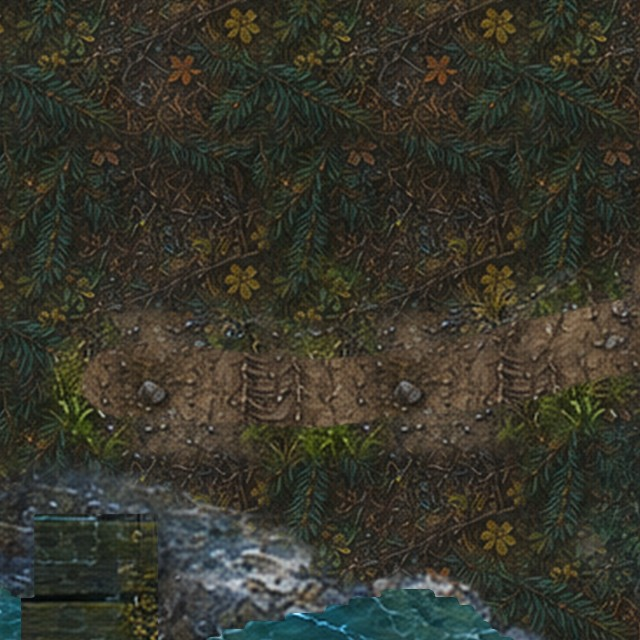
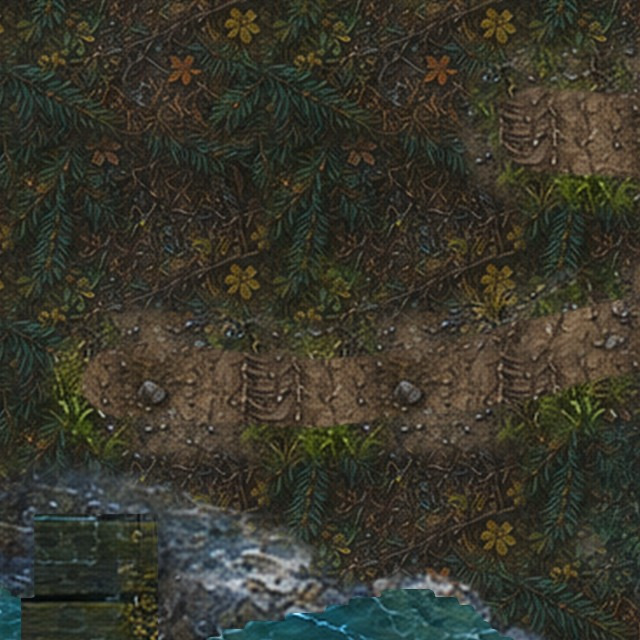
Bloodmoon Village is its own small map, and Fenris Isle's quests come from it
Kyle: "Did you want to make Bloodmoon village into a tiny hub? Actual map - but small and seperate."
Fenris Isle had 9 of 26 quests given in its village; the altar warden, the keep scout and the grave
hunter stood at the places they send you. Now:

- tools/handbuilt_bloodmoon_village.py: 46x36, a held cursed hamlet. Lane in from the south gate to
  the well, the elder's lodge, houses and huts, the gibbet and the village's own graves.
- On the isle, the village is a ruined gatehouse at the end of a lane off the island road. The
  pier, the road and the rest of the island are unchanged.
- Six people moved in (two elders, the provisioner, the warden, the scout, the gravehunter); the
  pier-warden stays on his pier. Greetings rewritten for where they stand now.
- Eight accept lines say which way to go from the village (altar north-west, manor north, Cur's
  Grave east): 0 WRONG, 0 SILENT.
- qa_quest_hubs covers every region now: eight more added, all at or above 70% from town. Fenris
  is at 92%.

Claude-Session: https://claude.ai/code/session_015TQrViPbuGDeiupTWSG9TT

Changed region(s): [[0.7188, 0.0625, 1.0, 0.3438]]

diff --git a/tools/handbuilt_bloodmoon_village.py b/tools/handbuilt_bloodmoon_village.py
@@ -1,0 +1,161 @@
+"""
+Hand-built Bloodmoon Village (46x36): the one roofed ground on Fenris Isle, levels 17-22.
+
+Kyle, 17 Nov 2026, on the quest-hub pass ("NPCs for quests are placed RIGHT at that subzone, this is... lame"): "Did you
+want to make Bloodmoon village into a tiny hub? Actual map - but small and seperate". Until today the village was a
+handful of huts on the isle's southern shore and only two of the isle's six quest-givers stood in it; the altar warden,
+the keep scout and the grave hunter stood at the places they send you. Now the village is its own small map and all
+of them stand in it, so a quest sends you out across the isle and you come back here to hand it in.
+
+TOWN ARCHETYPE: THE HELD VILLAGE.  A cursed hamlet that has not been abandoned because the people in it have nowhere
+else to go.  One lane in from the south gate to a well in the square; the elder's lodge to the north-west, a few
+houses and huts round the square, a gibbet nobody has taken down, and a scrap of graveyard at the east end.  Dead
+forest closes the edges, so it encloses without a wall sprite.
+
+    north: the elder's lodge, the watch corner
+    square: the well, Huntsman Corwell
+    south gate (23,35) -> Fenris Isle (58,104), the lane off the island road between the pier and the manor
+
+HARD CONTRACTS (world/portal_manager.py): portal (23,35) <-> Fenris Isle (58,104).  Arrivals land two tiles north of
+the destination tile, so you come in at (23,33) on the lane and go out at (58,102) past the isle's gatehouse.
+The gatehouse stands across the lane a few tiles in from each door: a decor building may not stand within two tiles
+of a door or an arrival, nor be drawn over a door (tools/handbuilt_central_barrens.Layout._try).
+NPC ids are the ones already in data/npcs/*.json - this module MOVES them, it does not invent any.
+"""
+import sys
+
+import numpy as np
+
+from tools import town_kit as K
+from tools import tirisfal_kit as T
+from tools.tirisfal_kit import wob
+
+KEY = "bloodmoon_village"
+NAME = "Bloodmoon Village"
+DESC = "Bloodmoon Village. The one roofed ground on Fenris Isle, held by people who have nowhere else to go."
+REGION = "Eastern Kingdoms - Lordaeron"
+W, H = 46, 36
+BAKED_DIR = "assets/tiles/bloodmoon_village/baked"
+IS_TOWN = True
+BASE_TILE = "grass"
+SEED = 98
+
+PORTALS = {(23, 35): "Fenris Isle"}
+ARRIVALS = [(23, 33)]
+START = (23, 28)
+
+ROADS = {
+    "lane": ([(23, 35), (23, 27), (23, 19)], 3.0),          # in from the south gate to the square
+    "west": ([(21, 17), (14, 14), (10, 12)], 2.2),          # up to the elder's lodge
+    "east": ([(26, 18), (33, 20), (38, 23)], 2.2),          # out to the graves
+}
+PLAZA = (23, 17, 7.0, 5.0)           # the square round the well
+DECKS = []
+
+_RS = K.RoadSet(ROADS)
+road_dist = _RS.dist
+
+
+def paved(gx, gy):
+    cx, cy, rx, ry = PLAZA
+    r = np.sqrt(((np.asarray(gx, float) - cx) / rx) ** 2 + ((np.asarray(gy, float) - cy) / ry) ** 2)
+    return (1 - r) * min(rx, ry)
+
+
+def deck_field(gx, gy):
+    return np.full(np.shape(gx), -9.0)
+
+
+def cliff_field(gx, gy):
+    """The dead-forest rim all round, and the one gap in it: the south gate, carved after the rim is forced."""
+    gx = np.asarray(gx, float)
+    gy = np.asarray(gy, float)
+    edge = np.minimum.reduce([gx, W - gx, gy, H - gy])
+    rock = (3.4 + 1.2 * wob(gx * 0.6, gy * 0.6)) - edge
+    gate = (np.abs(gx - 23.0) < 2.6) & (gy > H - 8)
+    rock = np.where(gate, np.minimum(rock, -1.0), rock)
+    rock = np.where(road_dist(gx, gy) > -0.4, np.minimum(rock, -0.5), rock)
+    return rock
+
+
+def fields(gx, gy):
+    gx = np.asarray(gx, float)
+    none = np.full(gx.shape, -99.0)
+    return dict(cliff=cliff_field(gx, gy), shallow=none, deep=none, deck=deck_field(gx, gy))
+
+
+def tile_kind(gx, gy):
+    return K.kind_from_fields(fields(gx, gy), np.shape(gx))
+
+
+SUBZONES = [
+    ("Bloodmoon Village", 2, 2, 42, 32),
+]
+
+# ---- baker config (read by tools/bake_silverpine.py; the same ground as Fenris Isle outside the gate) -------------
+BASE = {"mulch": 0.34, "fern": 0.16, "grass": 0.30, "rocky": 0.20}
+PAINT = {
+    "earth":  [(23, 26, 4, 7, 0.8), (36, 24, 5, 4, 0.7)],
+    "cursed": [(38, 25, 5, 4, 0.8)],
+    "gravel": [(23, 17, 6, 4, 0.6)],
+    "grass":  [(12, 24, 6, 5, 0.7), (32, 10, 6, 4, 0.6)],
+}
+COBBLE = [(23, 17, 7, 5, 0.9)]
+
+# ---- NPC spots ---------------------------------------------------------------------------------------------------
+# One per thing the village does. The three who used to stand out at the altar, the keep and the grave stand here
+# now and send you out to them.
+NPC_POSITIONS = {
+    "bloodmoon_elder":      (13, 15),    # Elder Gravemoss, at the door of the lodge
+    "fenris_village_elder": (26, 15),    # Huntsman Corwell, by the well
+    "fenris_provisioner":   (30, 22),    # vendor, at the stores
+    "fenris_altar_warden":  (9, 21),     # Warden Orlan, the west corner, facing the altar's ridge
+    "fenris_keep_scout":    (33, 11),    # Scout Merrin, the north corner, facing the manor
+    "fenris_grave_hunter":  (37, 20),    # Gravehunter Selke, the east end, by the village's own graves
+}
+CHESTS = []
+
+DEADS = [(T.HFP + "dead_pine_cluster.png", 5, 0.4), ("ek_dead_oak", 6, 0.34),
+         (T.CIP + "cursed_dead_tree_cluster.png", 6, 0.4)]
+FOREST = dict(seed=71, count=10, rim=2, thorn=8, names=DEADS)
+
+
+def dress(L):
+    p, b = L.prop, L.bld
+    CI = T.CIP
+    # ---- the gate and the lane in
+    b("ek_ruined_gatehouse", 23, 30, 9, solid=False, road_ok=True, nudge=0)
+    p("ek_forsaken_banner", 19, 26, 5)
+    p("ek_forsaken_banner", 27, 26, 5)
+    p("ek_signpost", 26, 24, 4)
+    # ---- the square
+    p("ek_farm_well", 20, 18, 4)
+    p("ek_farm_cart", 28, 26, 4)
+    # ---- the elder's lodge and the houses
+    b("forsaken_house_medium", 11, 10, 9, nudge=2)
+    b("forsaken_house_small", 31, 8, 8, nudge=2)
+    p(CI + "cursed_village_hut.png", 7, 26, 6)
+    p(CI + "cursed_village_hut.png", 15, 28, 6)
+    p(CI + "cursed_village_hut.png", 33, 27, 6)
+    p("ek_haystack", 11, 22, 4)
+    # ---- the stores
+    p("ek_scarlet_crates", 32, 23, 3)
+    # ---- the east end: a gibbet nobody has taken down, and the village's own graves
+    p("ek_gibbet", 40, 15, 6)
+    p(CI + "worn_tombstone_row.png", 39, 26, 4)
+    p("ek_open_grave", 41, 22, 3)
+    p("ek_cross_crows", 36, 30, 4)
+
+
+def build_layout():
+    return T.build(sys.modules[__name__])
+
+
+def generate_bloodmoon_village():
+    return T.generate(sys.modules[__name__])
+
+
+if __name__ == "__main__":
+    out = sys.argv[1] if len(sys.argv) > 1 else "/tmp/bloodmoon_shape.png"
+    T.shape_preview(sys.modules[__name__], out)
+    print(out)

diff --git a/tools/handbuilt_fenris_isle.py b/tools/handbuilt_fenris_isle.py
@@ -18,6 +18,8 @@ HARD CONTRACTS (world/portal_manager.py)
   portals  Silverpine South ferry (151,44) -> here (80,129) [arrive (80,127), on the pier]
            Shadowpine Altar (75,115) -> here (30,55) [arrive (30,57)]; this (30,55) -> Shadowpine Altar (75,115)
            this (80,129) -> Silverpine South (149,46)
+           this (58,104) <-> Bloodmoon Village (23,35): the village is its own small map since 17 Nov 2026
+           (tools/handbuilt_bloodmoon_village.py); a lane runs west off the island road to its gatehouse
 """
 import sys
 
@@ -37,8 +39,8 @@ IS_TOWN = False
 BASE_TILE = "grass"
 SEED = 97
 
-PORTALS = {(80, 129): "Silverpine South", (30, 55): "Shadowpine Altar"}
-ARRIVALS = [(80, 127), (30, 57)]
+PORTALS = {(80, 129): "Silverpine South", (30, 55): "Shadowpine Altar", (58, 104): "Bloodmoon Village"}
+ARRIVALS = [(80, 127), (30, 57), (58, 102)]
 START = (80, 118)
 
 ROADS = {
@@ -47,6 +49,7 @@ ROADS = {
     "west":   ([(80, 72), (66, 67), (52, 63), (40, 59), (31, 56)], 2.6),
     "east":   ([(81, 72), (96, 73), (110, 75), (122, 74), (132, 72)], 2.6),
     "docks":  ([(76, 108), (64, 110), (52, 112), (44, 112)], 2.4),
+    "village": ([(80, 104), (70, 104), (57, 104)], 2.4),       # the lane to Bloodmoon Village's gatehouse
 }
 _RS = K.RoadSet(ROADS)
 road_dist = _RS.dist
@@ -181,12 +184,8 @@ COBBLE = [(80, 104, 9, 6, 0.9), (80, 38, 9, 5, 0.9)]
 # ---- NPC spots ------------------------------------------------------------------------------------------------------
 NPC_POSITIONS = {
     "fenris_pier_warden": (83, 120),
-    "bloodmoon_elder": (76, 102),                  # Elder Gravemoss
-    "fenris_village_elder": (85, 101),             # Huntsman Corwell
-    "fenris_provisioner": (89, 107),               # vendor
-    "fenris_keep_scout": (83, 47),
-    "fenris_altar_warden": (35, 59),
-    "fenris_grave_hunter": (118, 73),
+    # The other six moved into Bloodmoon Village on 17 Nov 2026, which is its own map now
+    # (tools/handbuilt_bloodmoon_village.py). Left here they would paint "npc" talk tiles on empty ground.
 }
 CHESTS = [(92, 28), (40, 106), (140, 82), (24, 66), (100, 98)]
 
@@ -209,18 +208,13 @@ def dress(L):
     p(CO + "fish_crates_traps.png", 88, 122, 4)
     p(CO + "rowboat_wreck.png", 70, 124, 3, shore_ok=True)
     p("ek_signpost", 85, 117, 4)
-    # ---- Bloodmoon Village: the only roofed ground on the isle
-    b("forsaken_house_medium", 68, 98, 9, nudge=2)                  # the elder's lodge
-    b("forsaken_house_small", 92, 96, 8, nudge=2)
-    p(CI + "cursed_village_hut.png", 66, 108, 6)
-    p(CI + "cursed_village_hut.png", 94, 110, 6)
-    p(CI + "cursed_village_hut.png", 60, 100, 6)
-    p("ek_farm_well", 80, 98, 4)
+    # ---- Bloodmoon Village is its own map (tools/handbuilt_bloodmoon_village.py). What stays on the isle is
+    # its gatehouse at the end of a short lane off the island road, and the fields outside its fence.
+    b("ek_ruined_gatehouse", 63, 104, 10, solid=False, road_ok=True, nudge=0)
+    p("ek_forsaken_banner", 68, 100, 5)
     p("ek_farm_cart", 72, 111, 4)
     p("ek_haystack", 88, 112, 4)
-    p("ek_forsaken_banner", 74, 94, 5)
     p("ek_forsaken_banner", 87, 94, 5)
-    p("ek_gibbet", 96, 104, 6)
     p("ek_signpost", 82, 90, 4)
     T.grove(L, 54, 96, 5, 5, 4, DEADS, seed=3)
     T.grove(L, 104, 104, 5, 5, 4, DEADS, seed=4)

diff --git a/tools/qa_quest_hubs.py b/tools/qa_quest_hubs.py
@@ -62,10 +62,37 @@ REGIONS = {
     "Underdark": (["the_crystalline_underdark", "kaels_bastion", "the_deep_bloom", "the_frostward_descent",
                    "the_hollow_geode"], ["kaels_bastion"],
                   {"the_crystalline_underdark": [(83, 22, 8), (146, 58, 8)]}),
+    # ---- 17 Nov 2026, Kyle: "keep fixing up the hub issue". Every region now has an entry.
+    # Fenris Isle: Bloodmoon Village became its own small map ("Actual map - but small and seperate").
+    "Fenris Isle": (["fenris_isle"], ["bloodmoon_village"], {}),
+    # Stranglethorn: Grom'gol and Booty Bay. The arena gatehouse, the road gang, the shelf watcher, the marsh
+    # fisher and the herbalist at the falls are people who belong where they stand, and they're the wild share.
+    "Stranglethorn": (["gromgol", "central_stranglethorn", "gurbashi_arena", "veilfall_cave", "booty_bay"],
+                      ["gromgol", "booty_bay"], {}),
+    # Stonetalon: Sun Rock Retreat, and the Mistwalker camp in the west.
+    "Stonetalon": (["stonetalon_west", "stonetalon_east", "sun_rock_retreat"], ["sun_rock_retreat"],
+                   {"stonetalon_west": [(56, 142, 12)]}),
+    # Ashenvale: Astranaar and Splintertree; Zoram'gar, Maestra's Post and the Warsong camp are camps.
+    "Ashenvale": (["ashenvale_east", "ashenvale_west", "astranaar", "splintertree_post", "zoram_strand"],
+                  ["astranaar", "splintertree_post"],
+                  {"zoram_strand": [(20, 24, 14)], "ashenvale_west": [(85, 53, 6)], "ashenvale_east": [(44, 51, 6)]}),
+    # The Black Strand: Onyxhollow, and the survey camp at the head of the strand.
+    "Black Strand": (["the_black_strand", "the_royal_hive"], ["onyxhollow"], {"the_black_strand": [(18, 21, 8)]}),
+    # The Plaguelands: the Bulwark, the Pale Watch and Light's Hope, each its own map.
+    "Plaguelands": (["western_plaguelands_north", "western_plaguelands_south", "eastern_plaguelands_west",
+                     "eastern_plaguelands_east"], ["bulwark", "pale_watch", "lights_hope_chapel"], {}),
+    # Thousand Needles: Freewind Post and Saltwheel.
+    "Thousand Needles": (["freewind_post", "saltwheel", "the_shimmering_flats", "the_undercrust"],
+                         ["freewind_post", "saltwheel"], {}),
+    # Tanaris: Steamwheedle Port, the Fourth Peg and Glittervein.
+    "Tanaris": (["northern_tanaris", "steamwheedle_port", "the_drownbell", "the_lashings", "the_abyssal_sands",
+                 "glittervein", "the_cistern", "the_mother_vein"], ["steamwheedle_port", "fourth_peg", "glittervein"], {}),
 }
 #: the share of a region's quests that must come from town. Never lower one.
 FLOORS = {"Durotar": 0.70, "Tirisfal": 0.70, "Silverpine": 0.70, "Barrens": 0.70, "Hillsbrad": 0.70,
-          "Arathi": 0.70, "Felwood": 0.70, "Tempest": 0.70, "Underdark": 0.70}
+          "Arathi": 0.70, "Felwood": 0.70, "Tempest": 0.70, "Underdark": 0.70,
+          "Fenris Isle": 0.70, "Stranglethorn": 0.70, "Stonetalon": 0.70, "Ashenvale": 0.70, "Black Strand": 0.70,
+          "Plaguelands": 0.70, "Thousand Needles": 0.70, "Tanaris": 0.70}
 
 
 def norm(s):

diff --git a/world/zone_generator.py b/world/zone_generator.py
@@ -5618,6 +5618,7 @@ def create_all_zones():
     from tools import handbuilt_ambermill_tower as dat
     from tools import handbuilt_shadowfang_keep as dsfk
     from tools import handbuilt_fenris_isle as dfen
+    from tools import handbuilt_bloodmoon_village as dbmv
     from tools import handbuilt_hillsbrad_east as dhbe
     from tools import handbuilt_hillsbrad_west as dhbw
     from tools import handbuilt_tarren_mill as dtm
@@ -5767,6 +5768,8 @@ def create_all_zones():
         
         # ===== FENRIS ISLE (new zone) =====
         "Fenris Isle": dfen.generate_fenris_isle(),  # hand-built island (tools/handbuilt_fenris_isle.py)
+        # Kyle, 17 Nov 2026: "make Bloodmoon village into a tiny hub? Actual map - but small and seperate"
+        "Bloodmoon Village": dbmv.generate_bloodmoon_village(),  # tools/handbuilt_bloodmoon_village.py
 
         # ===== HILLSBRAD SPLIT (2 zones) - the first GREEN country after the blight =====
         "Eastern Hillsbrad": dhbe.generate_hillsbrad_east(),  # hand-built (tools/handbuilt_hillsbrad_east.py)

diff --git a/world/portal_manager.py b/world/portal_manager.py
@@ -799,6 +799,11 @@ class PortalManager:
             "Fenris Isle": {
                 (30, 55): ("Shadowpine Altar", 75, 115),
                 (80, 129): ("Silverpine South", 149, 46),   # boat return: arrive (149,44) on the pier
+                # Bloodmoon Village became its own small map on 17 Nov 2026; this is its gatehouse.
+                (58, 104): ("Bloodmoon Village", 23, 35),   # arrive (23,33), on the lane inside the gate
+            },
+            "Bloodmoon Village": {
+                (23, 35): ("Fenris Isle", 58, 104),         # arrive (58,102), just past the gatehouse on the isle
             },
             "Shadowpine Altar": {
                 (75, 115): ("Fenris Isle", 30, 55),             # cave exit: +3 -> arrive (30,56), south of the ridge arch

diff --git a/tools/bake_silverpine.py b/tools/bake_silverpine.py
@@ -26,7 +26,8 @@ from tools.terrain_painter import Painter, smoothstep, TILE_PX         # noqa: E
 
 TEX_DIR = ROOT / "assets/tiles/silverpine/materials"
 ZONES = {"silverpine_north": "tools.handbuilt_silverpine_north", "silverpine_south": "tools.handbuilt_silverpine_south",
-         "sepulcher": "tools.handbuilt_sepulcher", "fenris_isle": "tools.handbuilt_fenris_isle"}
+         "sepulcher": "tools.handbuilt_sepulcher", "fenris_isle": "tools.handbuilt_fenris_isle",
+         "bloodmoon_village": "tools.handbuilt_bloodmoon_village"}
 
 MATERIALS = {
     "pine":    ("sp_pine_floor", None, 1.0),

diff --git a/tools/qa_vendors.py b/tools/qa_vendors.py
@@ -49,6 +49,7 @@ TOWN_REGION = {
     # country around it, not people farming its own yard.
     "hammerfall": "Arathi Central",
     "saltspur_landing": "Arathi East",
+    "bloodmoon_village": "Fenris Isle",          # its own small map since 17 Nov 2026
     "kaels_bastion": "The Crystalline Underdark",
     "freewind_post": "Southern Thousand Needles",
     "sun_rock_retreat": "Stonetalon East",
